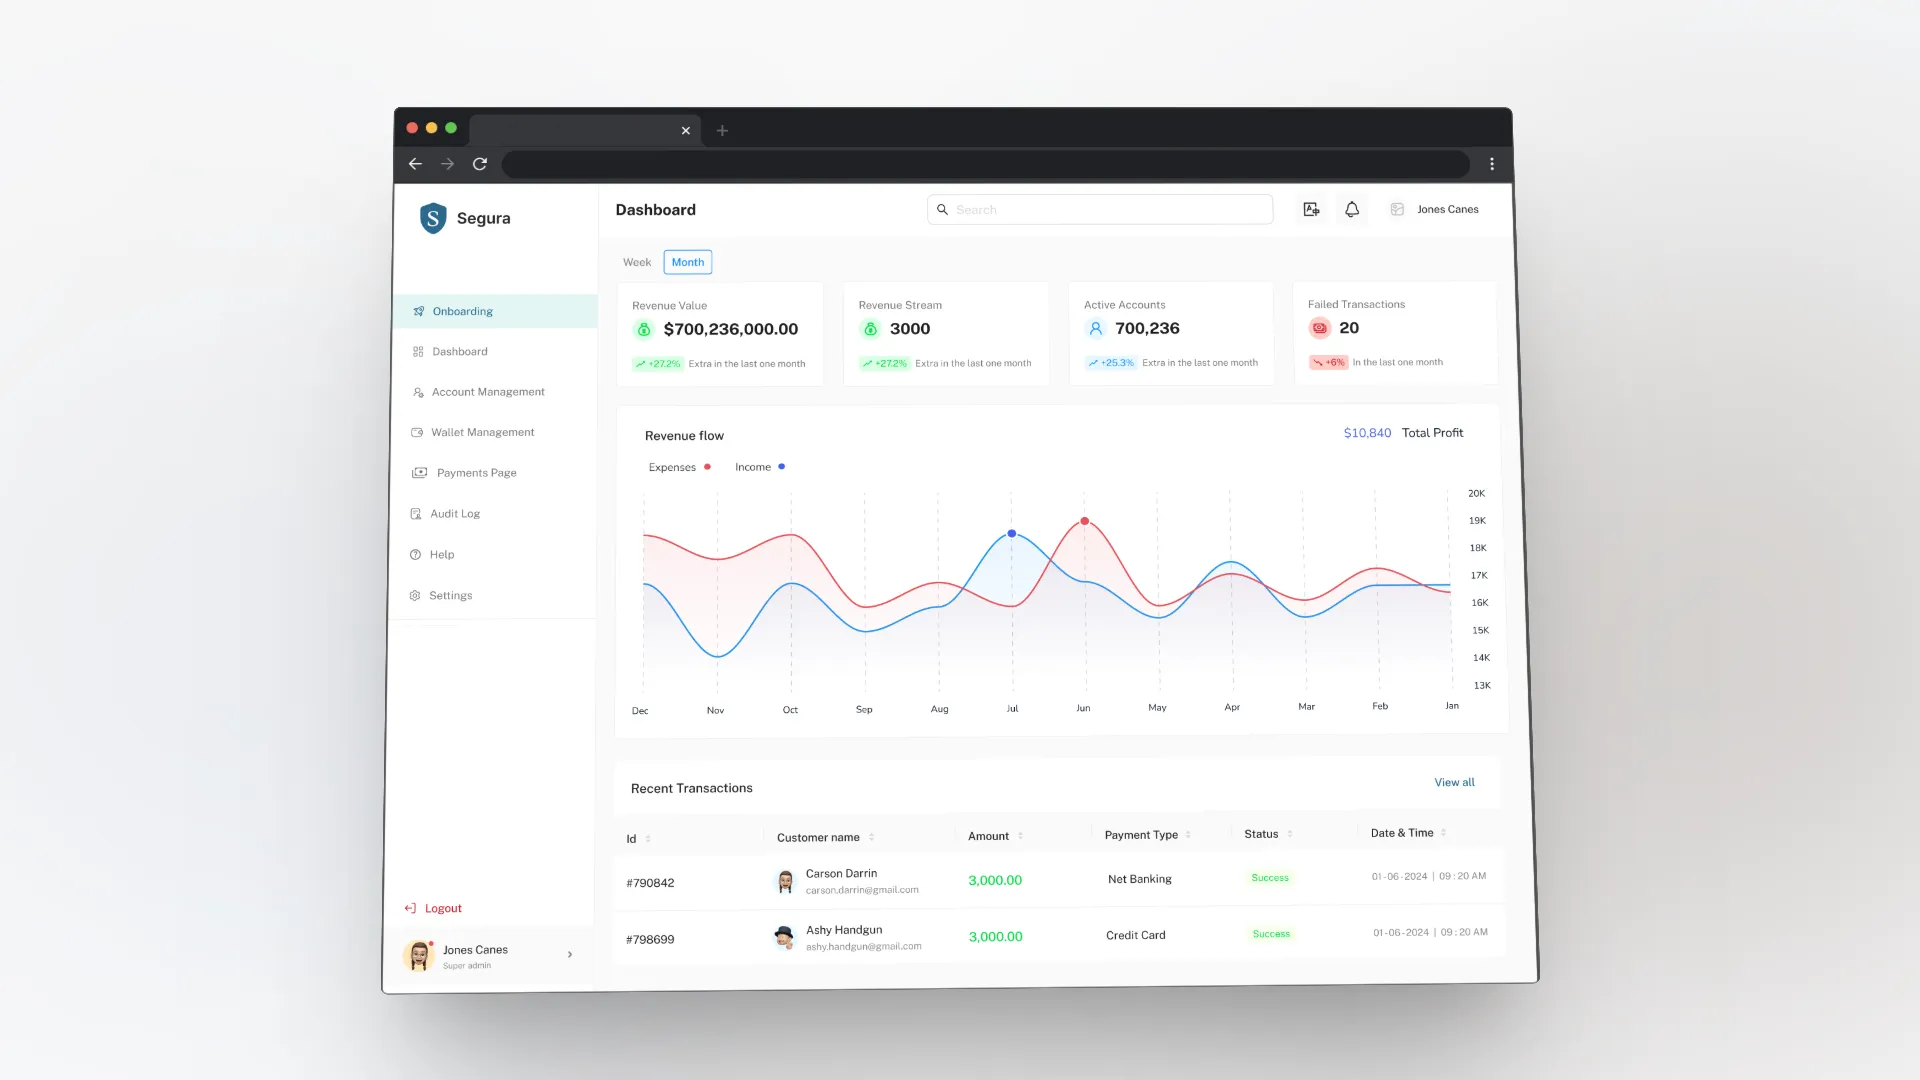
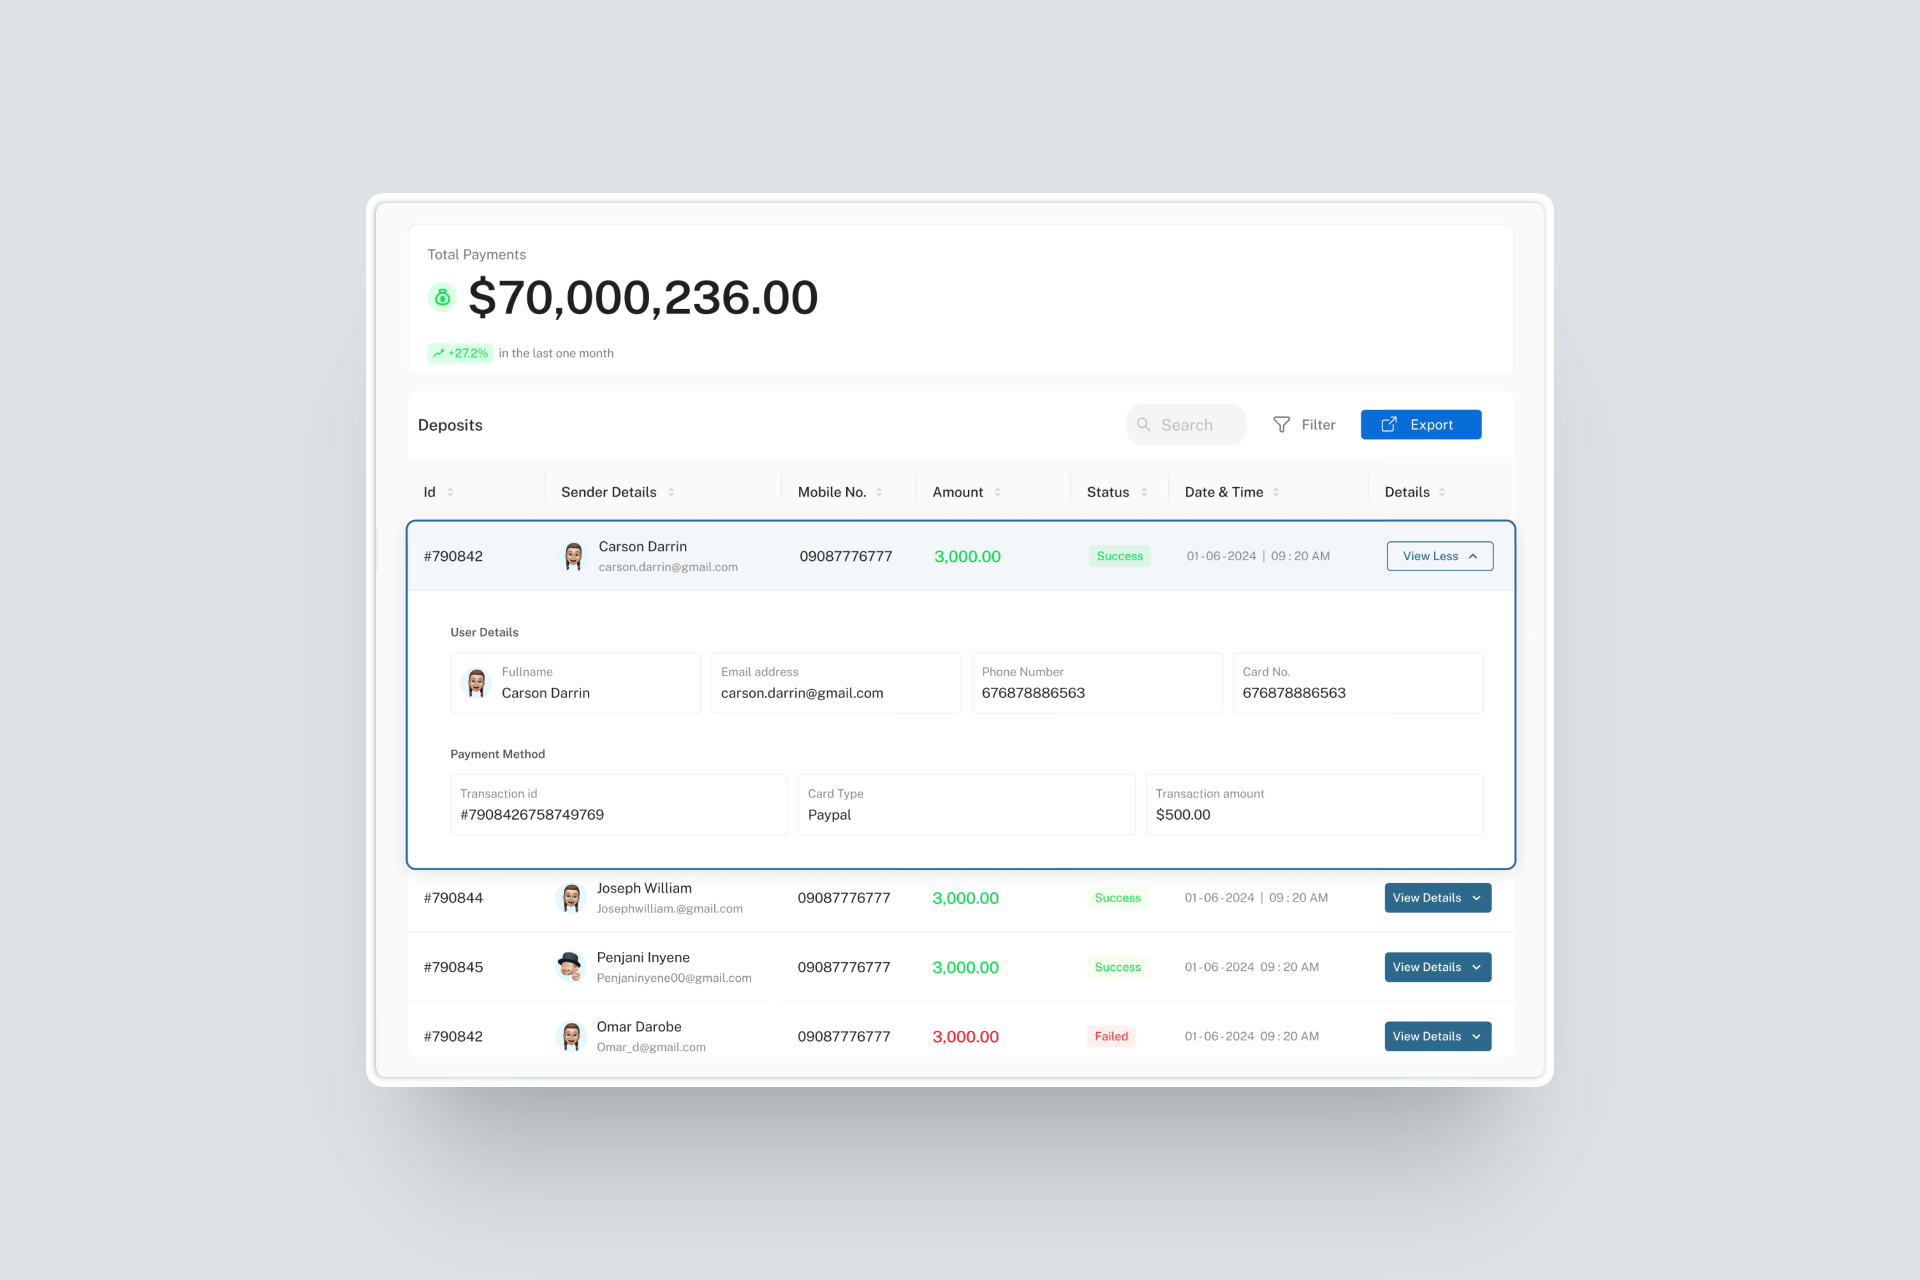
add fetured segura image, update md to reflect

diff --git a/src/content/projects/segura-pay.md b/src/content/projects/segura-pay.md
@@ -1,7 +1,7 @@
 ---
 title: "SeguraPay"
 category: "Fintech"
-year: "2023 — Present"
+year: "2024 — Present"
 featured: true
 order: 1
 description: "A comprehensive Banking-as-a-Service platform providing corporate clients with banking functionalities through a secure, scalable API-first architecture — enabling businesses to integrate account management, payments processing, and financial transactions directly into their operations."
